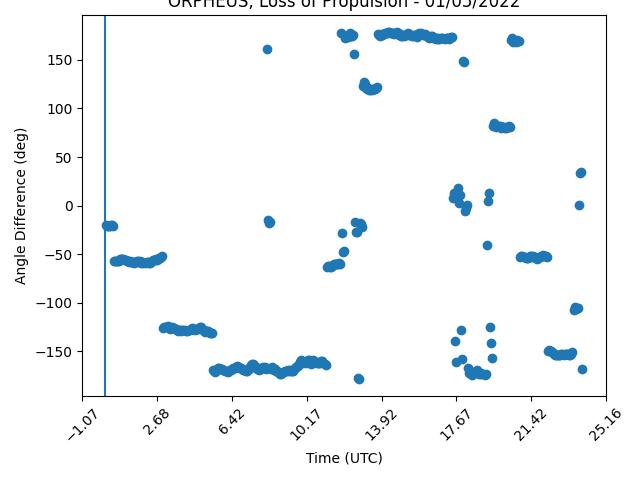
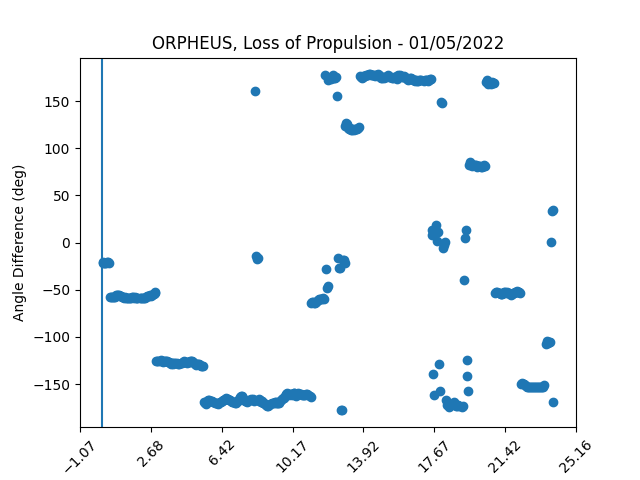
Update graphs and code to fix title cut-off

diff --git a/cleaned_ship_graphing.py b/cleaned_ship_graphing.py
@@ -215,49 +215,41 @@ def incident_graph(path, MMSI, time, plot_together=False):
 
 incident_graph('2018_12_31', '367552070', '23:20:00')
 plt.title('CHARLES HUAN, Allision - 12/31/2018')
-plt.tight_layout()
 plt.savefig('graphics/CHARLES HUAN, Allision.png')
 plt.clf()
 
 incident_graph('2019_01_03', '369371000', '04:00:00')
 plt.title('RONNIE MURPH, Loss of Propulsion - 01/03/2019')
-plt.tight_layout()
 plt.savefig('graphics/RONNIE MURPH, Loss of Propulsion.png')
 plt.clf()
 
 incident_graph('2019_01_14', '367638020', '02:20:00')
 plt.title('RANDY ECKSTEIN, Allision - 01/14/2019')
-plt.tight_layout()
 plt.savefig('graphics/RANDY ECKSTEIN, Allision.png')
 plt.clf()
 
 incident_graph('2021_01_02', '366254000', '04:10:00')
 plt.title('KAPENA JACK YOUNG, Collision - 01/02/2021')
-plt.tight_layout()
 plt.savefig('graphics/KAPENA JACK YOUNG, Collision .png')
 plt.clf()
 
 incident_graph('2021_01_07', '477288000', '07:22:00')
 plt.title('OCEAN PRINCESS, Allision - 01/07/2021')
-plt.tight_layout()
 plt.savefig('graphics/OCEAN PRINCESS, Allision.png')
 plt.clf()
 
 incident_graph('2022_01_05', '636017782', '00:05:00')
 plt.title('ORPHEUS, Loss of Propulsion - 01/05/2022')
-plt.tight_layout()
 plt.savefig('graphics/ORPHEUS, Loss of Propulsion.png')
 plt.clf()
 
 incident_graph('2022_01_06', '367103180', '07:20:00')
 plt.title('JACKSON PLATTE, Allision - 01/06/2022')
-plt.tight_layout()
 plt.savefig('graphics/JACKSON PLATTE, Allision.png')
 plt.clf()
 
 incident_graph('2022_01_15', '366973130', '05:00:00')
 plt.title('MALAGA, Loss of Propulsion - 01/15/2022')
-plt.tight_layout()
 plt.savefig('graphics/MALAGA, Loss of Propulsion.png')
 plt.clf()
 
